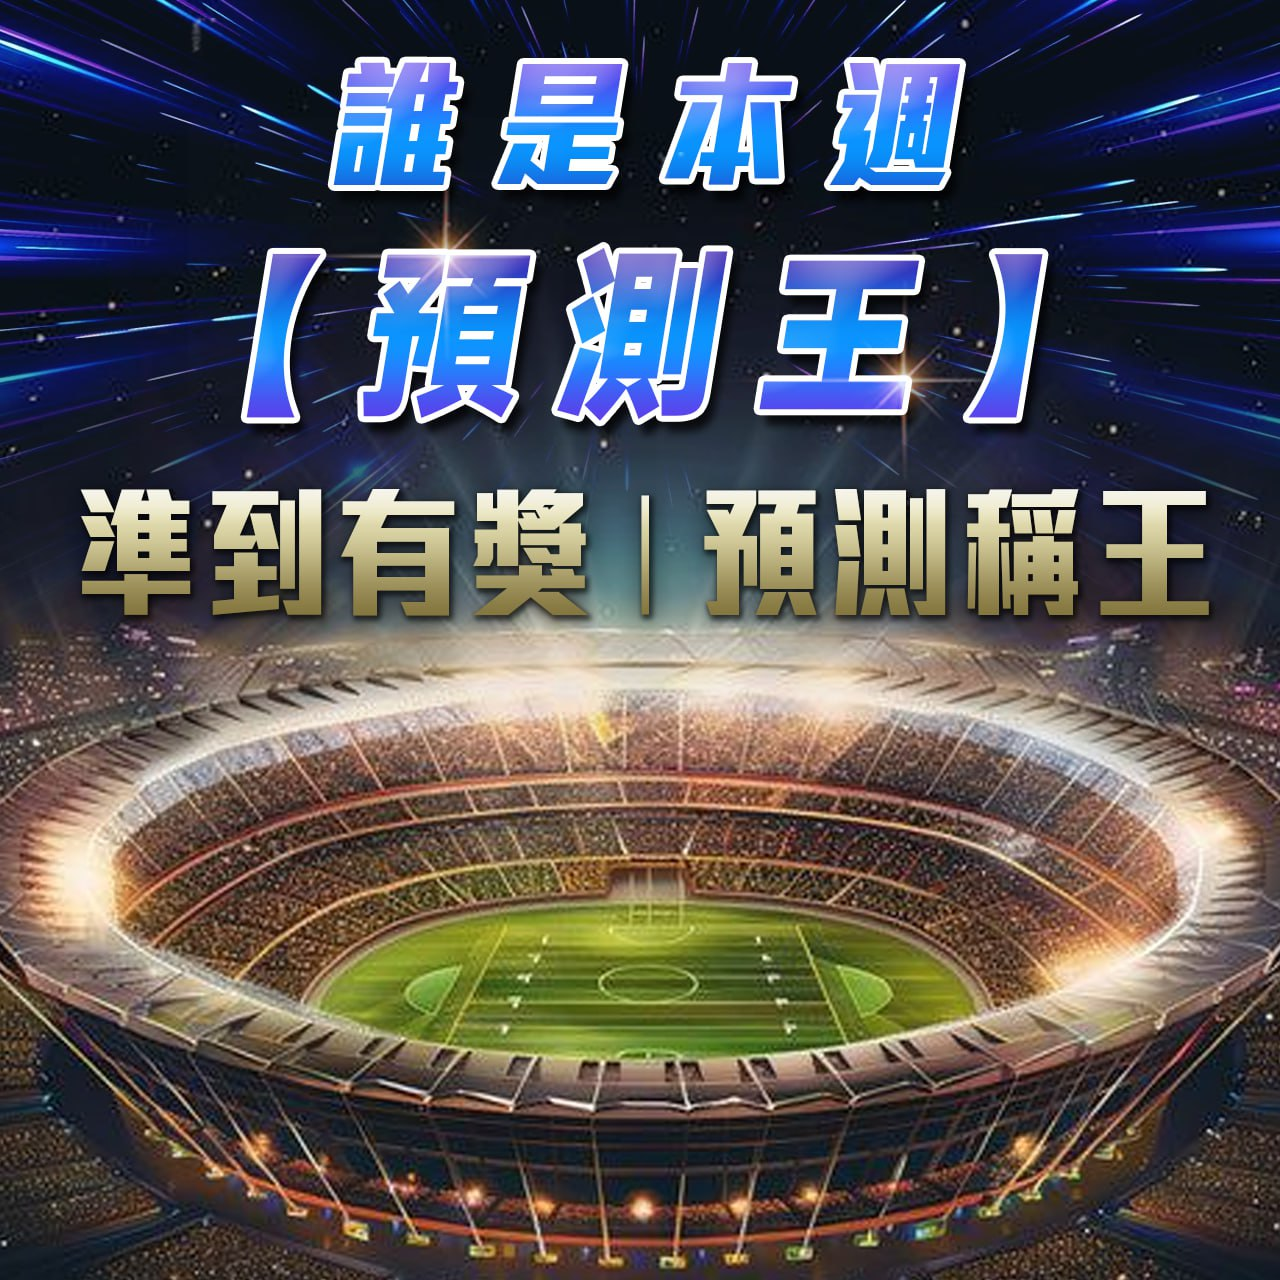
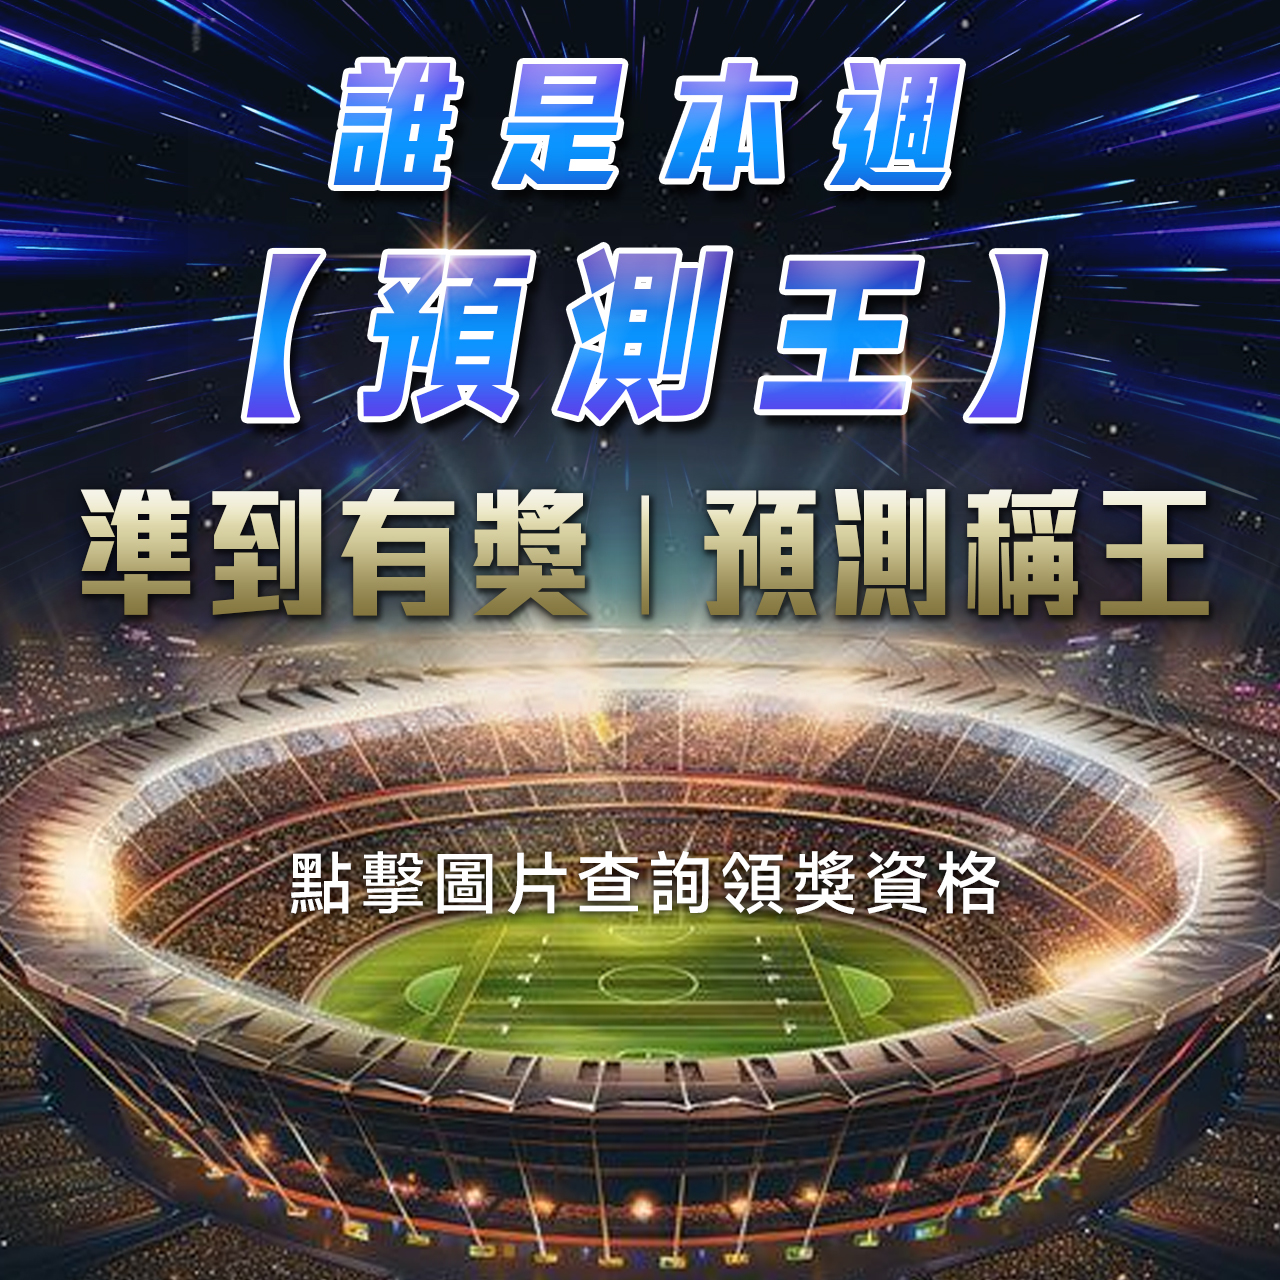
no message

diff --git a/application/api/controller/Line.php b/application/api/controller/Line.php
@@ -474,7 +474,7 @@ class Line extends Api
             'type' => 'carousel',
             'contents' => [
                 $this->sendHeatmapBubble($img1, $text1),
-                $this->sendHeatmapBubble($img2, $text2),
+                $this->sendHeatmapBubble($img2, $text2, ['cmd' => 'reward', 'action' => 'first_prize', 'displayText' => '檢查資格..']),
                 $this->sendHeatmapBubble($img3, $text3)
             ]
         ];
@@ -488,7 +488,7 @@ class Line extends Api
         $this->sendReplyMessageCus([$message]);
     }
 
-    private function sendHeatmapBubble($img, $text)
+    private function sendHeatmapBubble($img, $text, $actionData = null)
     {
         $bubble = [
             'type' => 'bubble',
@@ -500,6 +500,15 @@ class Line extends Api
                 'aspectMode' => 'cover',
             ]
         ];
+        
+        // 如果有指定 postback 行為
+        if ($actionData) {
+            $bubble['hero']['action'] = [
+                'type' => 'postback',
+                'data' => json_encode($actionData, JSON_UNESCAPED_UNICODE),
+                'displayText' => $actionData['displayText']
+            ];
+        }
 
         if($text){
             $bubble['body'] = [
